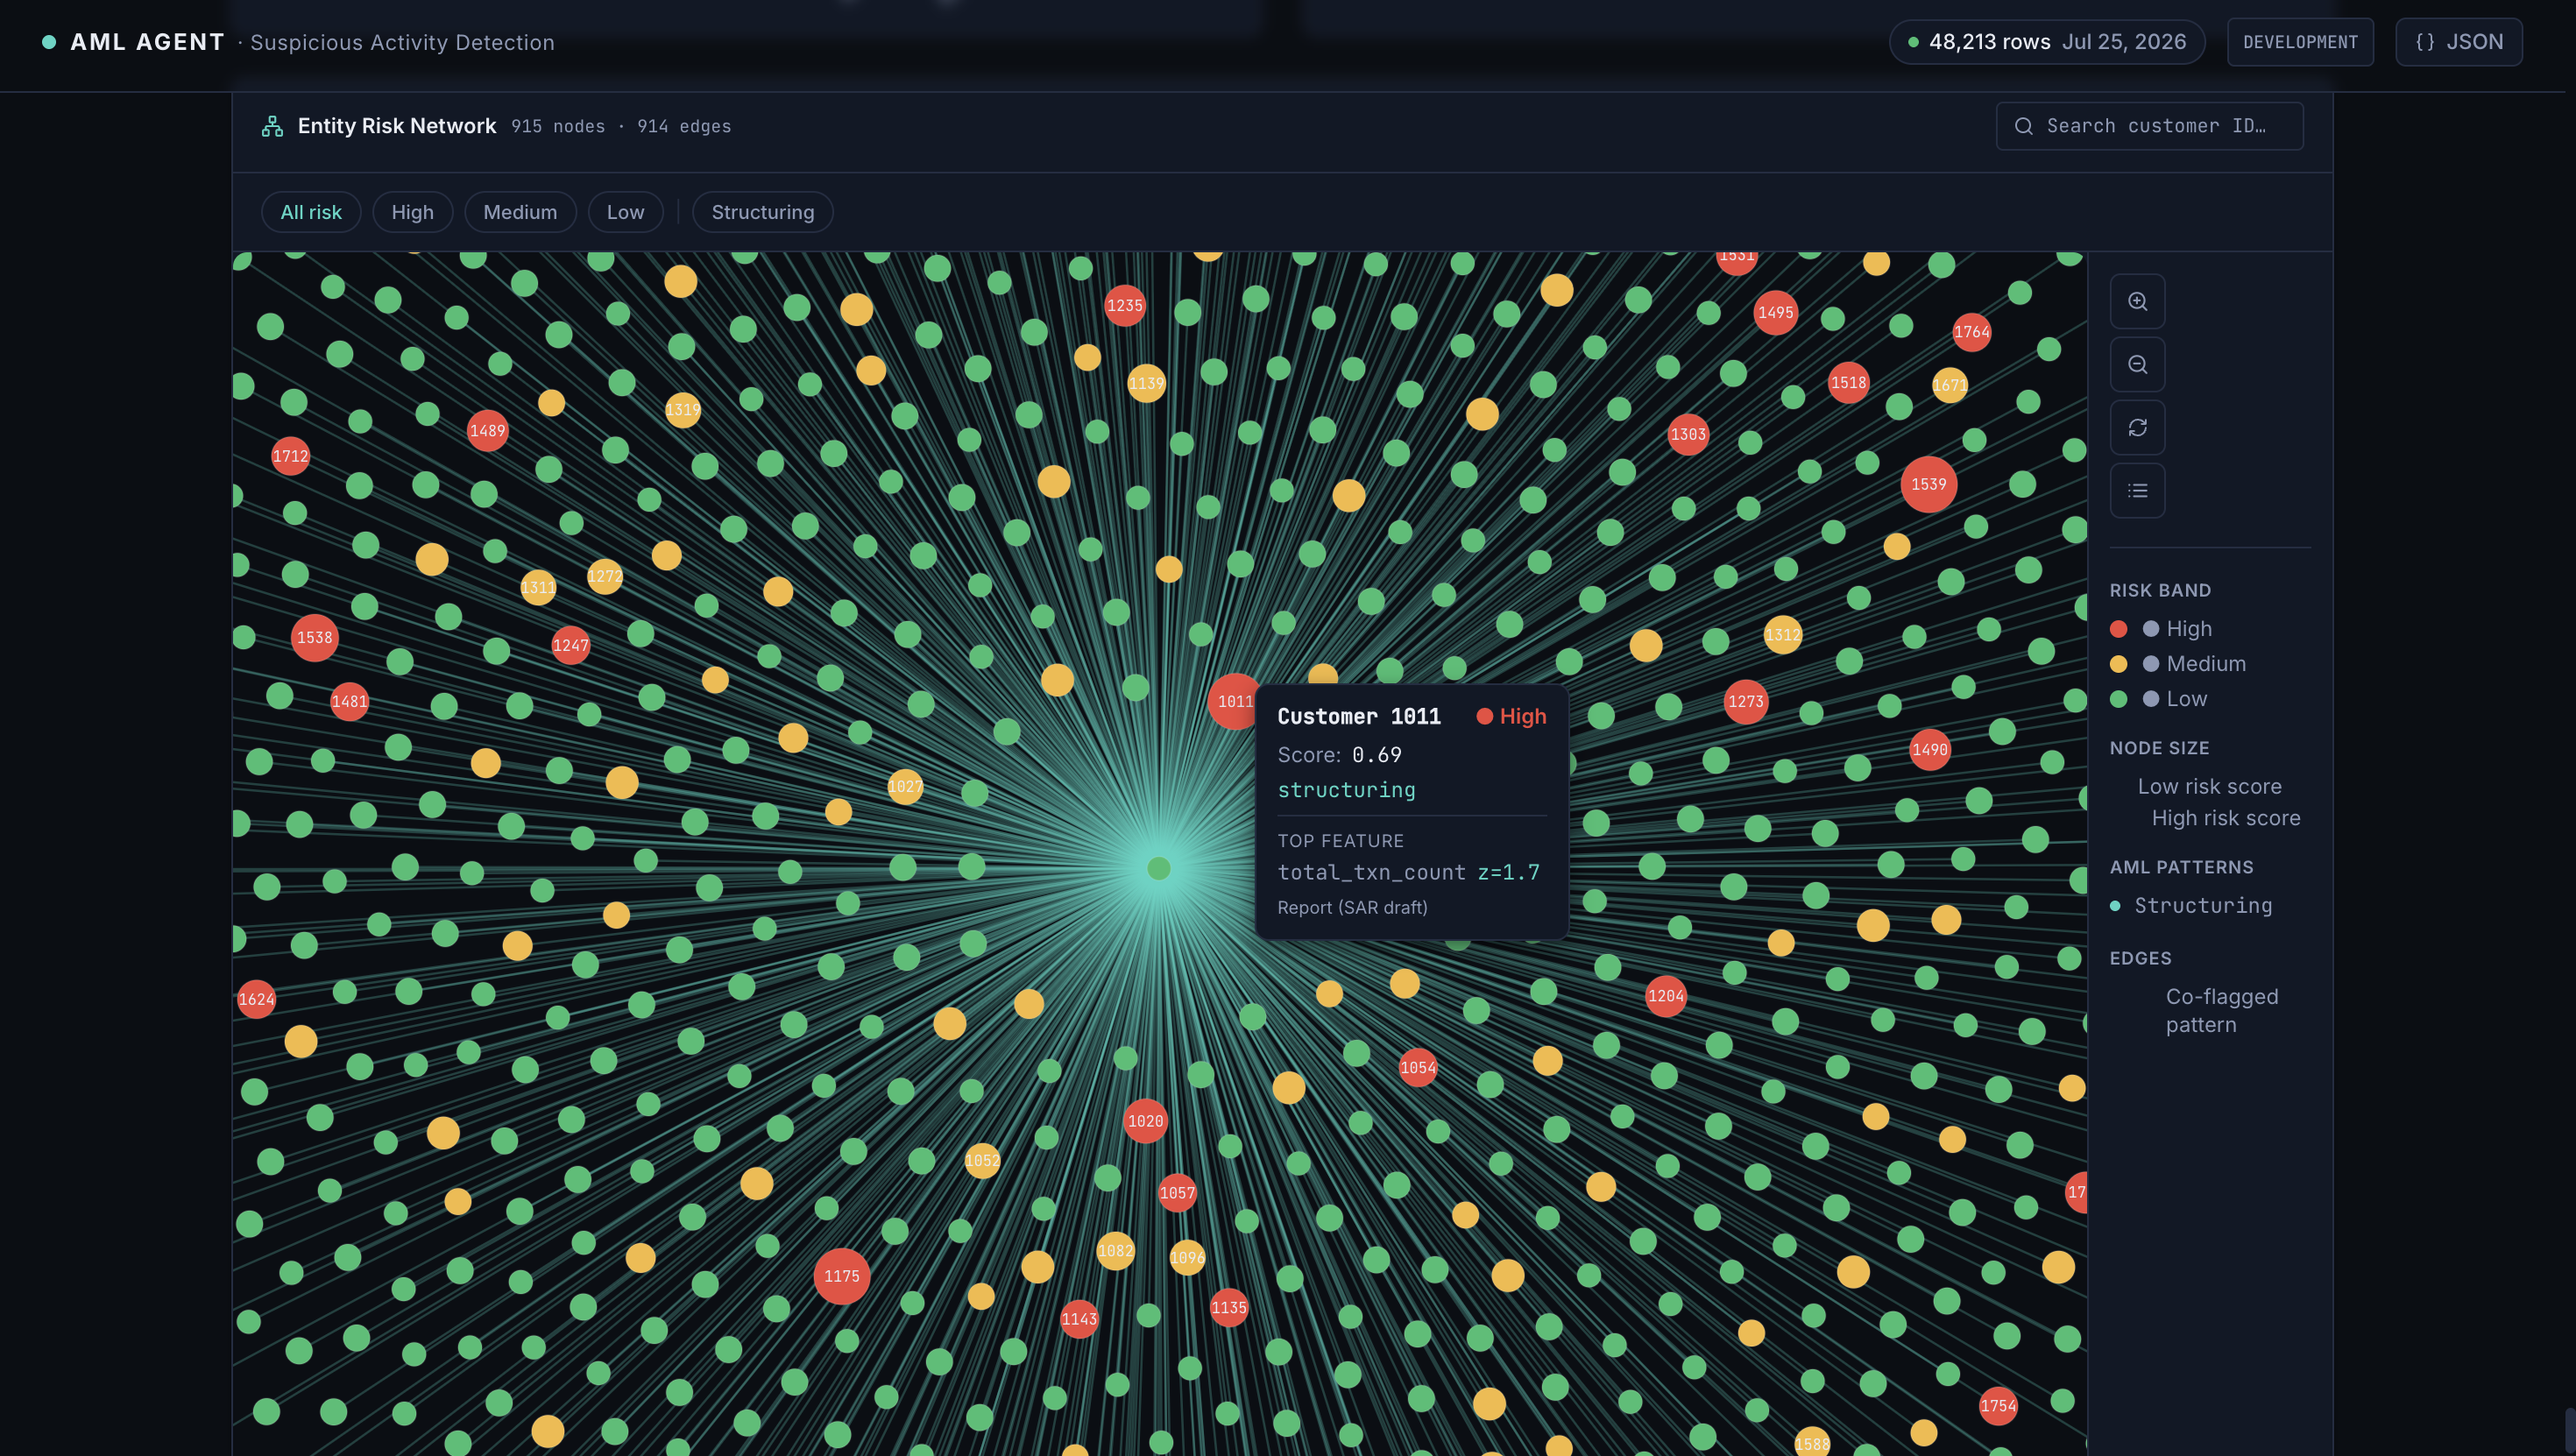
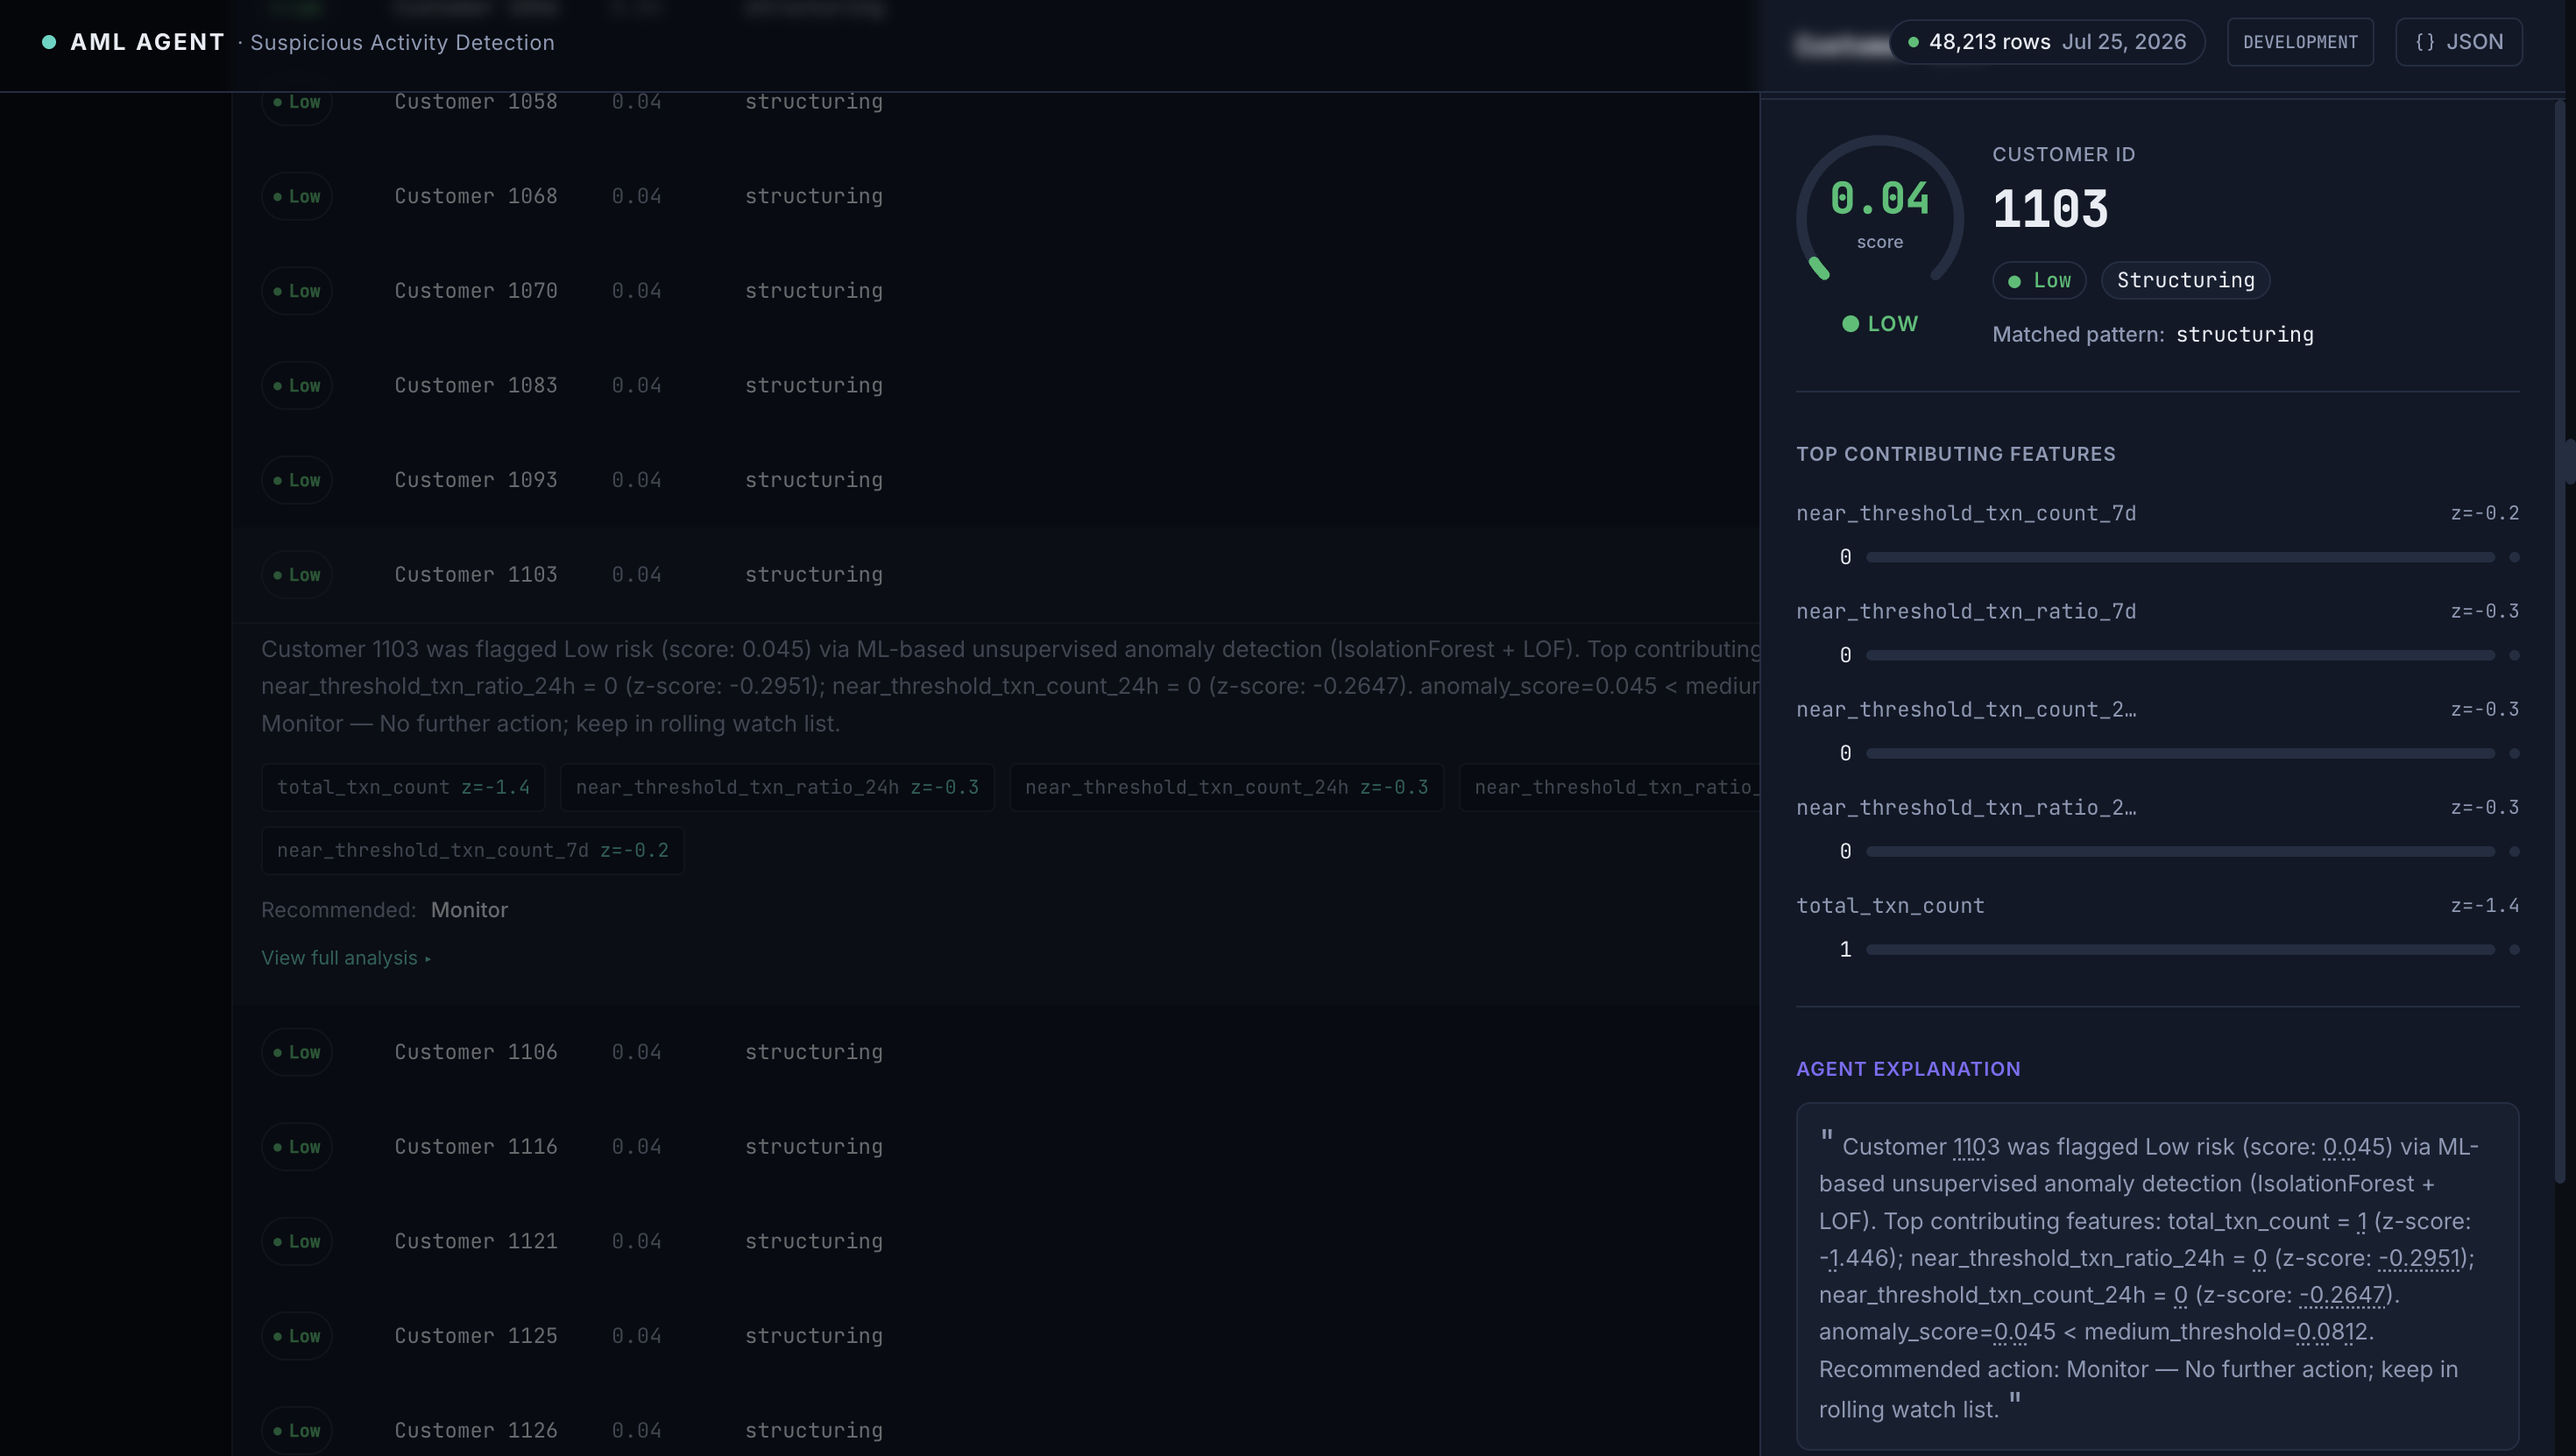
Replace screenshot 13 with JSON inspector image

diff --git a/README.md b/README.md
@@ -58,10 +58,10 @@ An autonomous, query-aware AML (Anti-Money Laundering) compliance agent. Instead
 
 ---
 
-### 4 · Charts — Amount Histogram & Activity Timeline
-> *Amount distribution with the $10,000 reporting threshold line always visible. Timeline scatter: point size = transaction amount.*
+### 4 · Raw JSON Inspector
+> *The complete `ExecutionReport` — plan, skip reasons, scores, features — always one click away from anywhere in the app.*
 
-![Charts Rail](screenshots/13-results-charts.png)
+![JSON Inspector](screenshots/13-results-charts.png)
 
 ---
 
